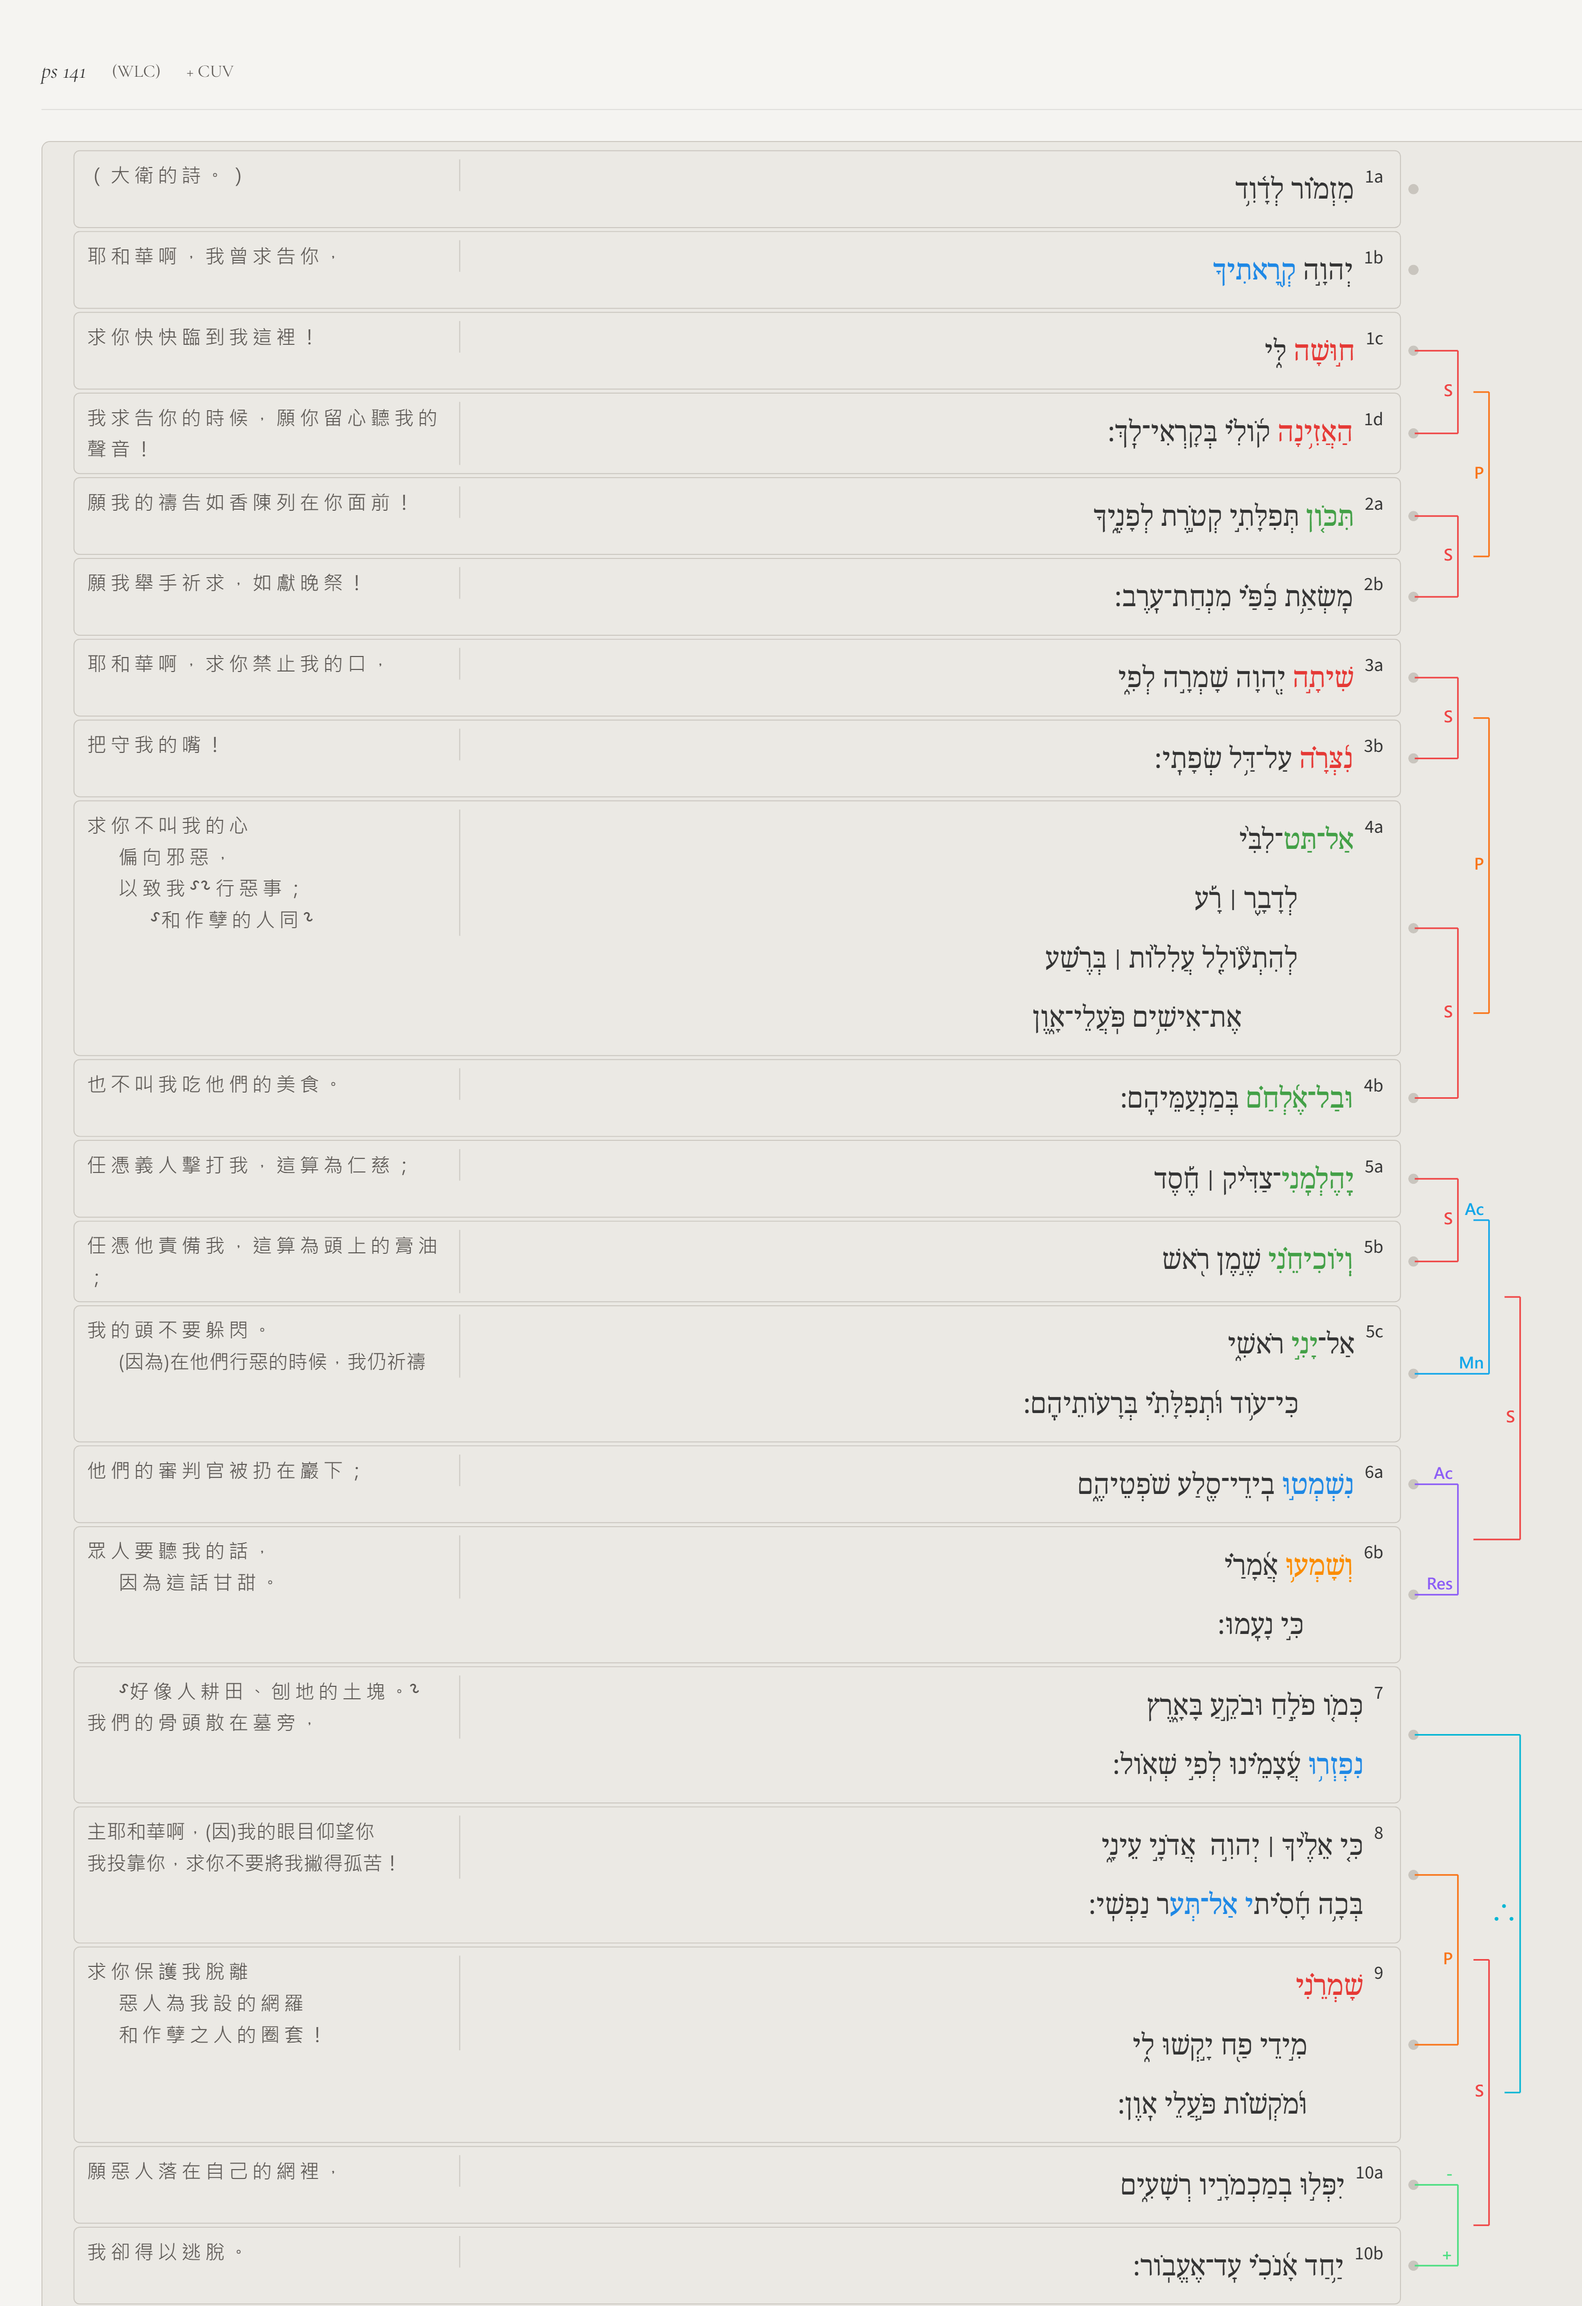
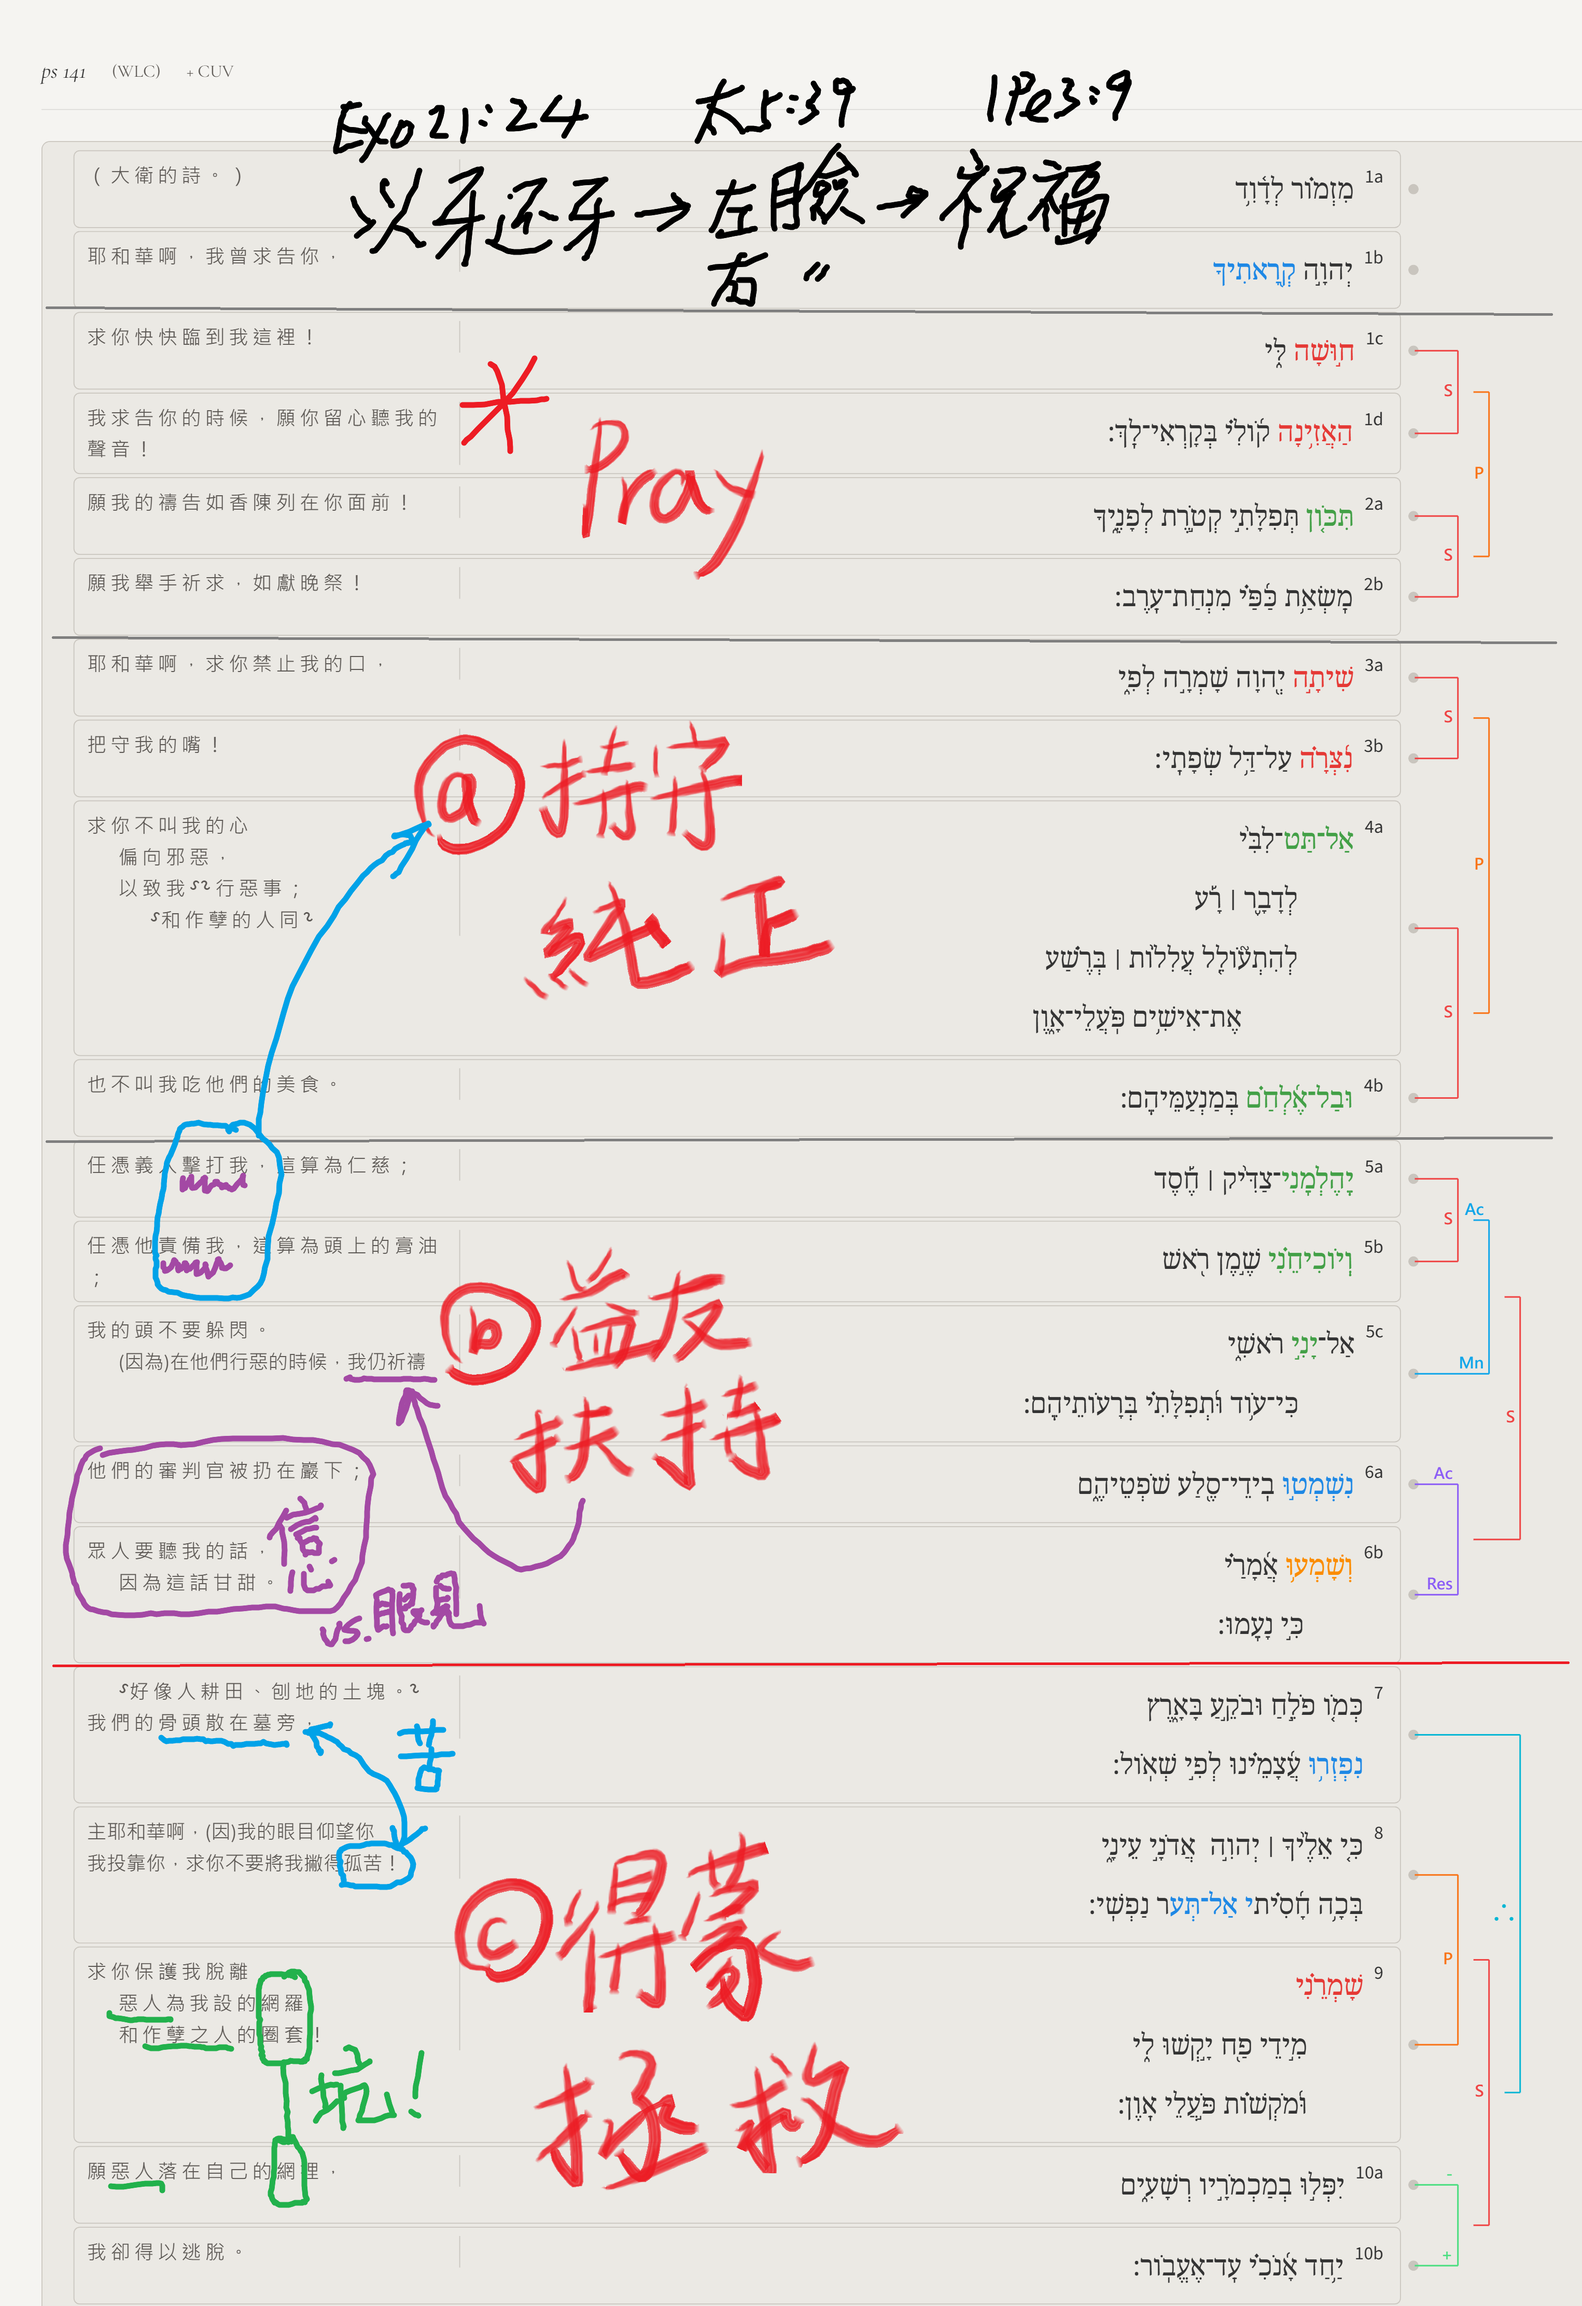
vault backup: 2026-08-13 10:20:24
Affected files:
.obsidian/workspace.json
Ps.141.md
images/ps_141_2026-08-13.png

diff --git a/Ps.141.md b/Ps.141.md
@@ -5,10 +5,12 @@
 
 
 ## 解經 (Exegesis)
-- 1（大衛的詩。）耶和華啊，我曾求告你，求你快快臨到我這裡！我求告你的時候，願你留心聽我的聲音！ 2願我的禱告如香陳列在你面前！願我舉手祈求，如獻晚祭！ 
-- 3耶和華啊，求你禁止我的口，把守我的嘴！ 4求你不叫我的心偏向邪惡，以致我和作孽的人同行惡事；也不叫我吃他們的美食。 
-- 5任憑義人擊打我，這算為仁慈；任憑他責備我，這算為頭上的膏油；我的頭不要躲閃。正在他們行惡的時候，我仍要祈禱。 
-- 6他們的審判官被扔在巖下；眾人要聽我的話，因為這話甘甜。 7我們的骨頭散在墓旁，好像人耕田、刨地的土塊。 8主─耶和華啊，我的眼目仰望你；我投靠你，求你不要將我撇得孤苦！ 9求你保護我脫離惡人為我設的網羅和作孽之人的圈套！ 10願惡人落在自己的網裡，我卻得以逃脫。
+- 分段：
+	- 1（大衛的詩。）耶和華啊，我曾求告你，
+	- 求你快快臨到我這裡！我求告你的時候，願你留心聽我的聲音！ 2願我的禱告如香陳列在你面前！願我舉手祈求，如獻晚祭！ 
+	- 3耶和華啊，求你禁止我的口，把守我的嘴！ 4求你不叫我的心偏向邪惡，以致我和作孽的人同行惡事；也不叫我吃他們的美食。 
+	- 5任憑義人擊打我，這算為仁慈；任憑他責備我，這算為頭上的膏油；我的頭不要躲閃。正在他們行惡的時候，我仍要祈禱。 6他們的審判官被扔在巖下；眾人要聽我的話，因為這話甘甜。 
+	- 7我們的骨頭散在墓旁，好像人耕田、刨地的土塊。 8主─耶和華啊，我的眼目仰望你；我投靠你，求你不要將我撇得孤苦！ 9求你保護我脫離惡人為我設的網羅和作孽之人的圈套！ 10願惡人落在自己的網裡，我卻得以逃脫。
 
 ## 語意圖析 (Semantic Diagram)
 
@@ -16,7 +18,17 @@
 
 
 ## 大綱 (Outline)
-😀😢🤔😮❓❌⭕❗🎀🎗✳
+- 基督徒讀舊約 vs. 猶太人讀舊約
+	- 以牙還牙
+		- Exo 21:24 以眼還眼，以牙還牙，以手還手，以腳還腳， 
+		- Deu 25:17-19  你要紀念你們出埃及的時候，亞瑪力人在路上怎樣待你。 他們在路上遇見你，趁你疲乏困倦擊殺你儘後邊軟弱的人，並不敬畏　神。 所以耶和華─你　神使你不被四圍一切的仇敵擾亂，在耶和華─你　神賜你為業的地上得享平安。那時，你要將亞瑪力的名號從天下塗抹了，不可忘記。 
+	- 左臉右臉
+		- Mat 5:38-40 你們聽見有話說：以眼還眼，以牙還牙。 只是我告訴你們，不要與惡人作對。有人打你的右臉，連左臉也轉過來由他打； 有人想要告你，要拿你的裡衣，連外衣也由他拿去； 
+	- 倒要祝福、追求良善
+		- 羅12:17 不要以惡報惡；眾人以為美的事要留心去做。 
+		- 帖前5:15 你們要謹慎，無論是誰都不可以惡報惡；或是彼此相待，或是待眾人，常要追求良善。 
+		- 彼前3:9 不以惡報惡，以辱罵還辱罵，倒要祝福；因你們是為此蒙召，好叫你們承受福氣。 
+- 無能的大能、軟弱的剛強
 
 ## 小抄 (memo)
 
